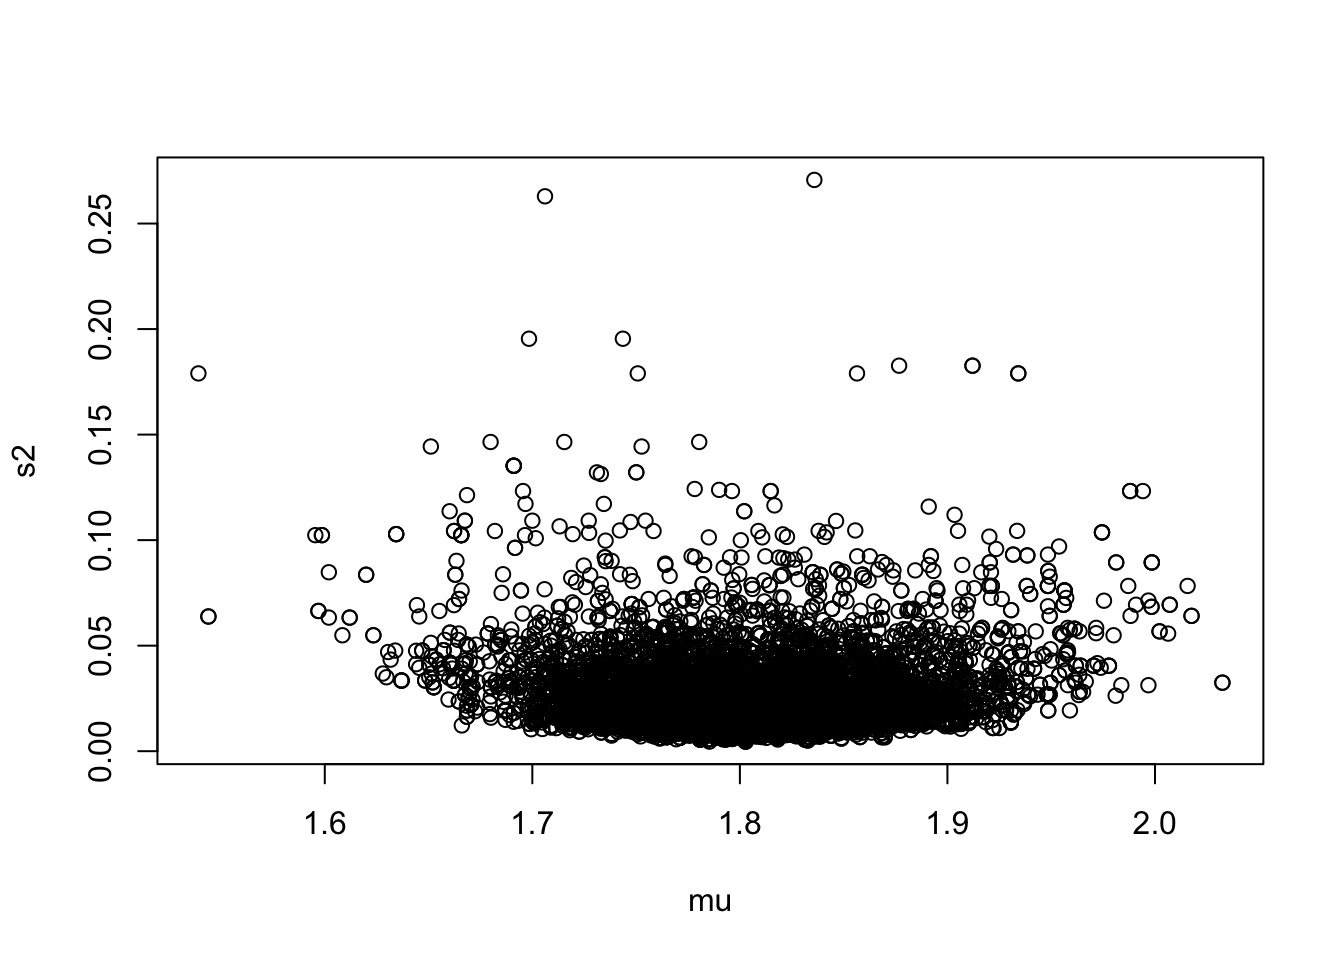
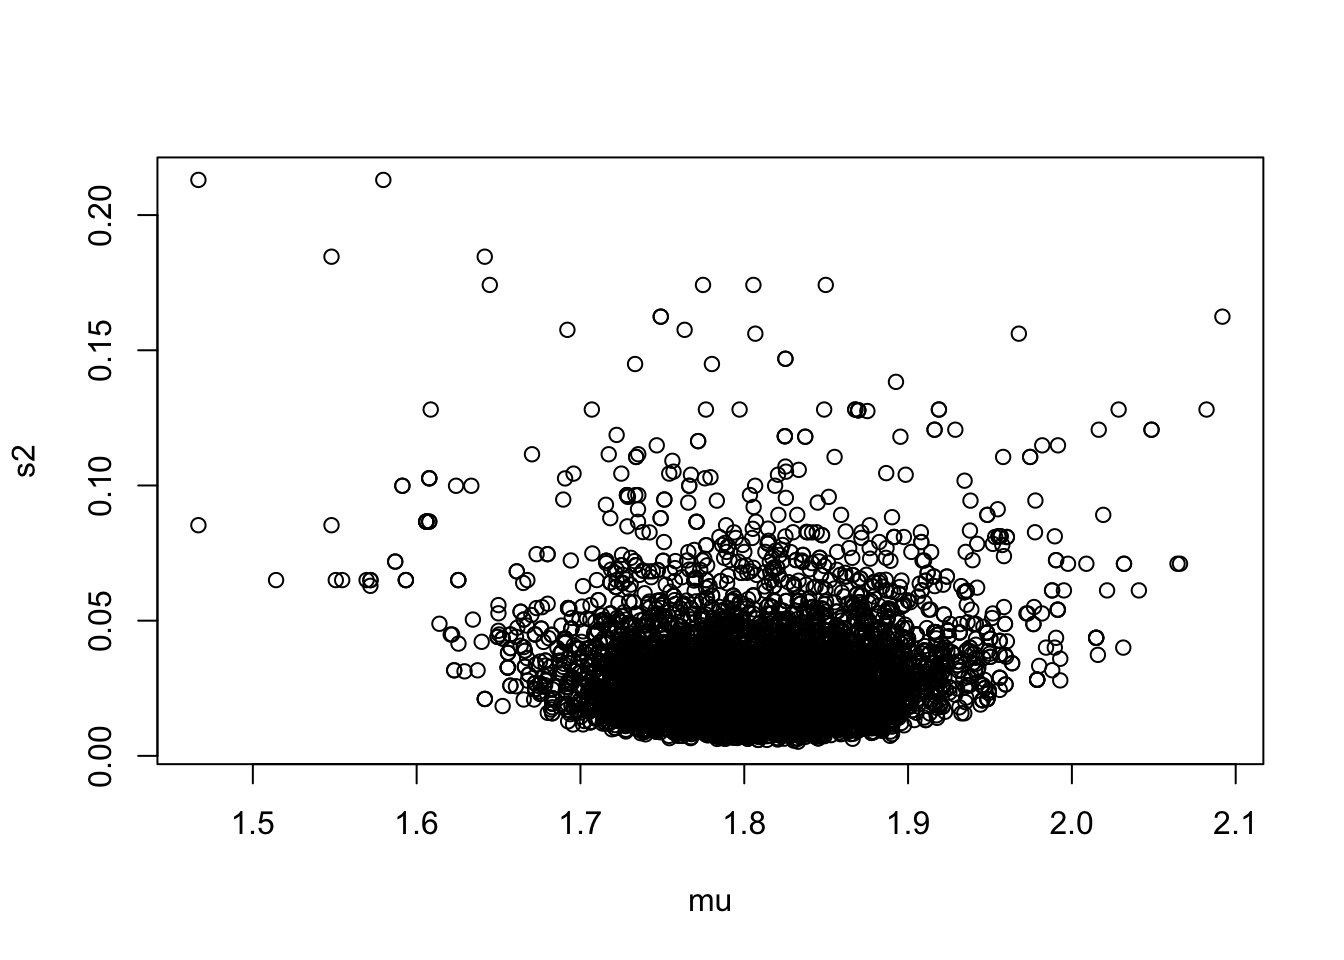
importing updated website

diff --git a/docs/VB_Bayes2.html b/docs/VB_Bayes2.html
@@ -477,7 +477,6 @@ and MCMC</div><p></p>
 <li>Find the <span class="math inline">\(\alpha/2\)</span> and <span class="math inline">\(1-\alpha/2\)</span> empirical quantiles (here 4% and 96%). For example these can be approximated by the <span class="math inline">\(N \times \left( \frac{\alpha}{2} , 1-\frac{\alpha}{2} \right)\)</span> order statistics.</li>
 <li>You’re done.</li>
 </ol>
-<p><br></p>
 <div class="cell">
 <div class="sourceCode cell-code" id="cb1"><pre class="sourceCode numberSource r number-lines code-with-copy"><code class="sourceCode r"><span id="cb1-1"><a></a>alpha<span class="ot">&lt;-</span><span class="fl">0.04</span>; N<span class="ot">&lt;-</span><span class="dv">2000</span></span>
 <span id="cb1-2"><a></a>x<span class="ot">&lt;-</span><span class="fu">rbeta</span>(N, <span class="dv">2</span>, <span class="dv">20</span>) <span class="do">## take samples</span></span>
@@ -489,8 +488,7 @@ and MCMC</div><p></p>
 </section>
 <section id="markov-chain-mc-mcmc" class="slide level2">
 <h2>Markov Chain MC (MCMC)</h2>
-<p>MCMC is the most commonly used numerical algorithm for generating posterior samples.</p>
-<p><br> A <span style="color: dodgerblue;">Markov Chain</span> is a sequence of randomly generated numbers where each draw depends on the one immediately preceding it.</p>
+<p>MCMC is the most commonly used numerical algorithm for generating posterior samples. A <span style="color: dodgerblue;">Markov Chain</span> is a sequence of randomly generated numbers where each draw depends on the one immediately preceding it.</p>
 
 <img data-src="MCMC.jpg" class="r-stretch quarto-figure-center"><p class="caption">Plot – Ian Murray (http://mlg.eng.cam.ac.uk/zoubin/tut06/mcmc.pdf)</p></section>
 <section id="gibbs-sampling" class="slide level2">
@@ -506,25 +504,20 @@ and MCMC</div><p></p>
 <li>Calculate precision of the summaries (e.g., sample variance)</li>
 <li>CIs via quantiles (order statistics of the data) or HPD intervals (using <span class="math inline">\({\tt CODA}\)</span> package in <span class="math inline">\({\tt R}\)</span>)</li>
 </ul>
-<p><br></p>
+</section>
+<section id="what-do-we-do-with-posterior-samples-1" class="slide level2">
+<h2>What do we do with Posterior Samples?</h2>
 <p>If the samples are parameters in a complex model, we can plug them all in, one at a time, to get a range of possible predictions from the model (we’ll see this in the practical bit, later on).</p>
 </section>
-<section id="models-comparison-via-dic" class="slide level2">
-<h2>Models Comparison via (DIC)</h2>
-<p>The <span style="color: dodgerblue;"> Deviance Information Criterion</span> (DIC) seeks to judge a model on how well it fits, penalized by the complexity of the model: <span class="math display">\[
-DIC = D(\bar{\theta}) + 2p_D
-\]</span> where:</p>
-<ul>
-<li>Deviance: <span class="math inline">\(D(\theta)=-2\log(\mathcal{L}(\theta; y)) + C\)</span></li>
-<li>Penalty: <span class="math inline">\(p_D = \bar{D} -D(\bar{\theta})\)</span></li>
-<li><span class="math inline">\(D(\bar{\theta})\)</span>: deviance at the posterior mean of <span class="math inline">\(\theta\)</span></li>
-<li><span class="math inline">\(\bar{D}\)</span>: average deviance across the posterior samples.</li>
-</ul>
-<p><span class="math inline">\(\rightarrow\)</span> <span style="color: red;">Already implemented in nimble!</span></p>
+<section id="model-comparison-options" class="slide level2">
+<h2>Model Comparison options</h2>
+<p>We often use <span style="color: dodgerblue;">Information Criterion</span> to compare between models. You may be familiar with AIC. But we want to use something different when we’re doing sample-based Bayesian comparisons.</p>
+<p>The two most common are <span style="color: dodgerblue;"> Deviance Information Criterion</span> (DIC) and <span style="color: red;">widely-Applicable Information Criterion</span> (wAIC). Both seeks to judge a model on how well it fits (based on the likelihood), penalized by the complexity of the model.</p>
+<p>Both are implemented in <code>nimble</code>. Typically <strong>wAIC</strong> is preferred because it is more numerically stable (DIC can be led astray by poor MCMC samples).</p>
 </section>
-<section id="bayesian-using-nimblejags" class="slide level2">
-<h2>Bayesian using nimble/JAGS</h2>
-<p>Both nimble and JAGS implement Gibbs sampling/MCMC in a fairly easy to use package that you can call from R. Models are encoded using the BUGS language.</p>
+<section id="bayesian-analysis-using-nimblejags" class="slide level2">
+<h2>Bayesian analysis using nimble/JAGS</h2>
+<p>Both <code>nimble</code> and JAGS implement Gibbs sampling/MCMC in a fairly easy to use package that you can call from R. Models are encoded using the BUGS language.</p>
 <p><br></p>
 <p>That is, once you specify the appropriate <strong><span style="color: dodgerblue;">sampling distribution/likelihood</span></strong> and any <strong><span style="color: red;">priors</span></strong> for the parameters, it will use MCMC to obtain samples from the posterior in the right ratios so that we can calculate whatever we want.</p>
 </section>
@@ -536,6 +529,14 @@ DIC = D(\bar{\theta}) + 2p_D
 <li>What is the relationship between your predictors and your response?</li>
 <li>What kind of probability distribution should you use to describe your response variable?</li>
 <li>Are there any constraints on your parameters or responses that you need to encode in your prior or likelihood, respectively?</li>
+</ul>
+</section>
+<section id="bayestpc-philosophy-for-fitting-tpcs" class="slide level2">
+<h2><code>bayesTPC</code> philosophy for fitting TPCs</h2>
+<p>Because there are a lot of decisions to make for a novice when using <code>nimble</code> or <code>JAGS/rjags</code> directly, we developed <code>bayesTPC</code> which implements some reasonable defaults for a specific group of functions that are used to describe <code>mygrn("Thermal Performance Curves")</code> (TPCs). You choose one of the built-in TPC functions (the relationship between predictors and response). We choose:</p>
+<ul>
+<li>a default likelihood (usually a truncated normal)</li>
+<li>default priors for parameters for the TPC functions</li>
 </ul>
 </section>
 <section id="next-steps" class="slide level2">

diff --git a/docs/VB_Bayes_activity2.html b/docs/VB_Bayes_activity2.html
@@ -451,12 +451,12 @@ window.Quarto = {
 <div class="sourceCode cell-code" id="cb30"><pre class="sourceCode r code-with-copy"><code class="sourceCode r"><span id="cb30-1"><a href="#cb30-1" aria-hidden="true" tabindex="-1"></a><span class="fu">head</span>(mcmc.out)</span></code><button title="Copy to Clipboard" class="code-copy-button"><i class="bi"></i></button></pre></div>
 <div class="cell-output cell-output-stdout">
 <pre><code>           mu
-[1,] 1.780335
-[2,] 1.861166
-[3,] 1.797519
-[4,] 1.769138
-[5,] 1.757114
-[6,] 1.854682</code></pre>
+[1,] 1.810289
+[2,] 1.833854
+[3,] 1.795548
+[4,] 1.740060
+[5,] 1.690816
+[6,] 1.779764</code></pre>
 </div>
 </div>
 <div class="cell" data-layout-align="center">
@@ -527,12 +527,12 @@ window.Quarto = {
 <div class="sourceCode cell-code" id="cb47"><pre class="sourceCode r code-with-copy"><code class="sourceCode r"><span id="cb47-1"><a href="#cb47-1" aria-hidden="true" tabindex="-1"></a><span class="fu">head</span>(mcmc.out<span class="sc">$</span>chain1)</span></code><button title="Copy to Clipboard" class="code-copy-button"><i class="bi"></i></button></pre></div>
 <div class="cell-output cell-output-stdout">
 <pre><code>           mu
-[1,] 1.777210
-[2,] 1.858268
-[3,] 1.773143
-[4,] 1.851308
-[5,] 1.724705
-[6,] 1.759484</code></pre>
+[1,] 1.806702
+[2,] 1.839211
+[3,] 1.733905
+[4,] 1.739998
+[5,] 1.912696
+[6,] 1.769248</code></pre>
 </div>
 </div>
 <div class="cell" data-layout-align="center">
@@ -573,12 +573,12 @@ Sample size per chain = 10000
    plus standard error of the mean:
 
           Mean             SD       Naive SE Time-series SE 
-     1.8047799      0.0528424      0.0005284      0.0005284 
+     1.8047606      0.0526350      0.0005263      0.0005210 
 
 2. Quantiles for each variable:
 
  2.5%   25%   50%   75% 97.5% 
-1.700 1.770 1.805 1.841 1.907 </code></pre>
+1.701 1.770 1.804 1.841 1.910 </code></pre>
 </div>
 </div>
 <p>Let’s compare these draws to what we got with our analytic solution:</p>
@@ -734,12 +734,12 @@ Sample size per chain = 10000
 <div class="sourceCode cell-code" id="cb79"><pre class="sourceCode r code-with-copy"><code class="sourceCode r"><span id="cb79-1"><a href="#cb79-1" aria-hidden="true" tabindex="-1"></a><span class="fu">head</span>(mcmc.out2<span class="sc">$</span>chain1)</span></code><button title="Copy to Clipboard" class="code-copy-button"><i class="bi"></i></button></pre></div>
 <div class="cell-output cell-output-stdout">
 <pre><code>           mu         s2      tau
-[1,] 1.859425 0.01393186 71.77793
-[2,] 1.811395 0.01393186 71.77793
-[3,] 1.811395 0.01393186 71.77793
-[4,] 1.811395 0.03003123 33.29867
-[5,] 1.859023 0.01109501 90.13063
-[6,] 1.859023 0.05058802 19.76753</code></pre>
+[1,] 1.781687 0.02516209 39.74233
+[2,] 1.781687 0.02516209 39.74233
+[3,] 1.781687 0.02071725 48.26896
+[4,] 1.781687 0.02071725 48.26896
+[5,] 1.781687 0.01674568 59.71690
+[6,] 1.781687 0.01826931 54.73661</code></pre>
 </div>
 <div class="sourceCode cell-code" id="cb81"><pre class="sourceCode r code-with-copy"><code class="sourceCode r"><span id="cb81-1"><a href="#cb81-1" aria-hidden="true" tabindex="-1"></a>samp2<span class="ot">&lt;-</span><span class="fu">as.mcmc</span>(mcmc.out2<span class="sc">$</span>chain1)</span></code><button title="Copy to Clipboard" class="code-copy-button"><i class="bi"></i></button></pre></div>
 </div>
@@ -765,17 +765,17 @@ Sample size per chain = 10000
 1. Empirical mean and standard deviation for each variable,
    plus standard error of the mean:
 
-       Mean       SD  Naive SE Time-series SE
-mu   1.8050  0.05411 0.0005411      0.0011967
-s2   0.0258  0.01741 0.0001741      0.0004076
-tau 52.0886 27.21038 0.2721038      0.7226429
+        Mean       SD  Naive SE Time-series SE
+mu   1.80612  0.05495 0.0005495      0.0012740
+s2   0.02595  0.01717 0.0001717      0.0004235
+tau 51.18713 25.46047 0.2546047      0.6324343
 
 2. Quantiles for each variable:
 
-         2.5%      25%      50%      75%     97.5%
-mu   1.698385  1.77133  1.80461  1.83650   1.91917
-s2   0.008591  0.01499  0.02086  0.03109   0.07211
-tau 13.867975 32.16077 47.93895 66.71960 116.40315</code></pre>
+         2.5%     25%      50%      75%     97.5%
+mu   1.702370  1.7716  1.80627  1.83874   1.91774
+s2   0.008967  0.0153  0.02109  0.03135   0.07166
+tau 13.954269 31.9003 47.40685 65.37122 111.52621</code></pre>
 </div>
 </div>
 <p>Now we plot each with their priors:</p>

diff --git a/docs/Stats_review.html b/docs/Stats_review.html
@@ -329,7 +329,7 @@ window.Quarto = {
 <li>discrete (numbers of items or successes)</li>
 <li>continuous (heights, times, weights)</li>
 </ul>
-<p>We usually use capital letters – e.g.&nbsp;<span class="math inline">X</span>, <span class="math inline">Y</span>, sometimes with bold or with subscripts – to denote the RVs. In contrast we use lower case letters, e.g.&nbsp;<span class="math inline">x</span>, <span class="math inline">y</span>, <span class="math inline">k</span>, to denote the values that the RV takes. For instance, lets say that the heights of the woman at Virginia Tech are the RV, <span class="math inline">X</span>, and <span class="math inline">X</span> has a normal distribution with mean 62 inches and variance 6<span class="math inline">^2</span>, i.e., <span class="math inline">X \sim \mathrm{N}(62,6^2)</span> distribution. Say we then observe the heights of 3 individuals drawn from this distribution – we would write this as: <span class="math inline">x=(</span> 68.5, 56.7, 51.1 <span class="math inline">)</span>.</p>
+<p>We usually use capital letters – e.g.&nbsp;<span class="math inline">X</span>, <span class="math inline">Y</span>, sometimes with bold or with subscripts – to denote the RVs. In contrast we use lower case letters, e.g.&nbsp;<span class="math inline">x</span>, <span class="math inline">y</span>, <span class="math inline">k</span>, to denote the values that the RV takes. For instance, lets say that the heights of the woman at Virginia Tech are the RV, <span class="math inline">X</span>, and <span class="math inline">X</span> has a normal distribution with mean 62 inches and variance 6<span class="math inline">^2</span>, i.e., <span class="math inline">X \sim \mathrm{N}(62,6^2)</span> distribution. Say we then observe the heights of 3 individuals drawn from this distribution – we would write this as: <span class="math inline">x=(</span> 40.8, 63.1, 67.2 <span class="math inline">)</span>.</p>
 <p><br> <br> </p>
 </section>
 <section id="probability-distributions" class="level1">
@@ -553,7 +553,7 @@ f(x)=\frac{1}{\sqrt{2\pi\sigma^2}}\exp{\left(-\frac{(x-\mu)^2}{2\sigma^2}\right)
 <div class="cell">
 <div class="sourceCode cell-code" id="cb3"><pre class="sourceCode r code-with-copy"><code class="sourceCode r"><span id="cb3-1"><a href="#cb3-1" aria-hidden="true" tabindex="-1"></a><span class="fu">rnorm</span>(<span class="dv">3</span>, <span class="at">mean=</span><span class="dv">0</span>, <span class="at">sd=</span><span class="dv">1</span>) <span class="do">## random draws</span></span></code><button title="Copy to Clipboard" class="code-copy-button"><i class="bi"></i></button></pre></div>
 <div class="cell-output cell-output-stdout">
-<pre><code>[1] -0.1523074  1.5782043 -1.0039444</code></pre>
+<pre><code>[1] -1.29659243  0.29969607  0.04740097</code></pre>
 </div>
 </div>
 <div class="cell">

diff --git a/docs/VB_Bayes1.html b/docs/VB_Bayes1.html
@@ -670,7 +670,7 @@ P(l(y) &lt;\theta &lt; u(y)|Y=y)=0.95
 <section class="slide level2">
 
 <p><span style="color: red;">Exercise: Is a treatment for cancer effective?</span></p>
-<p>We have data on <span class="math inline">\(n\)</span> cancer patients that have been given a treatment. Our outcome variable is whether or not it was ``effective’’:</p>
+<p>We have data on <span class="math inline">\(n\)</span> cancer patients that have been given a treatment. Our outcome variable is whether or not it was “effective”:</p>
 <table>
 <thead>
 <tr class="header">
@@ -702,6 +702,9 @@ P(l(y) &lt;\theta &lt; u(y)|Y=y)=0.95
 </tr>
 </tbody>
 </table>
+</section>
+<section class="slide level2">
+
 <p>The appropriate sampling model for each patient is a Bernoilli: <span class="math display">\[Y_i|\theta  \stackrel{iid}{\sim} f(Y|\theta) = \text{Bern}(\theta)\]</span> where <span class="math inline">\(\theta\)</span> is the success rate of the treatment. Write down the likelihood for the <span class="math inline">\(n\)</span> patients. Then, assuming a <span class="math inline">\(\mathrm{Beta}(a,b)\)</span> prior for <span class="math inline">\(\theta\)</span>, find the posterior distribution for <span class="math inline">\(\theta|Y\)</span>. Does this look familiar?</p>
 </section>
 <section id="next-steps" class="slide level2">
